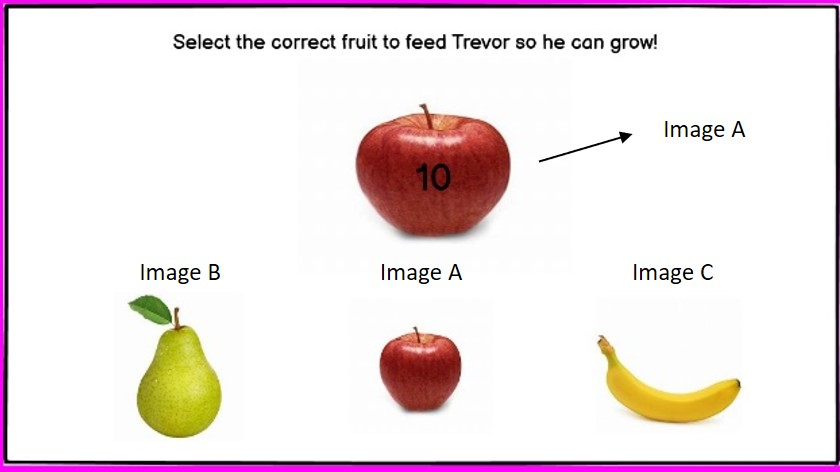
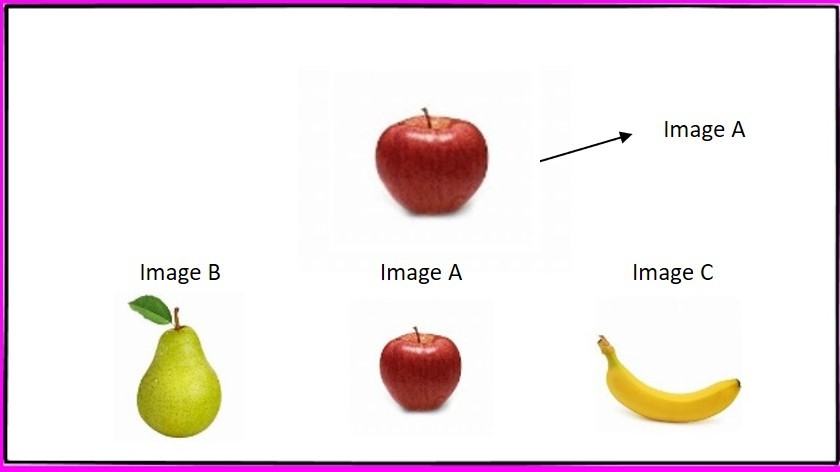
update README.md

Changed region(s): [[0.4024, 0.2076, 0.619, 0.5339], [0.1857, 0.0593, 0.8048, 0.1186]]

diff --git a/index.html b/index.html
@@ -103,19 +103,19 @@
 <!--Countdown timer and Image A-->
             <div>
                 <div class="answer__image__container">
-                   <img src="assets/images/egg_level/banana_single1.jpg" class="answer__image__picture" id="answer" alt="Random piece of fruit image which slowly disappear">
+                   <img src="assets/images/white_placeholder.jpg" class="answer__image__picture" id="answer" alt="Random piece of fruit image which slowly disappear">
                 </div>
             </div>
 <!---Three option images-->            
             <div class="row option__image__section">
                 <div class="col-4 option__image__container">
-                    <img src="assets/images/egg_level/apple_single1.jpg" class="option__image__picture hide" id="imageA" alt="Fruit option 1">
+                    <img src="assets/images/white_placeholder.jpg" class="option__image__picture hide" id="imageA" alt="Fruit option 1">
                 </div>
                 <div class="col-4 option__image__container">
-                    <img src="assets/images/egg_level/banana_single1.jpg" class="option__image__picture hide" id="imageB" alt="Fruit option 2">
+                    <img src="assets/images/white_placeholder.jpg" class="option__image__picture hide" id="imageB" alt="Fruit option 2">
                 </div>
                 <div class="col-4 option__image__container">
-                    <img src="assets/images/egg_level/lemon_single1.jpg" class="option__image__picture hide" id="imageC" alt="Fruit option 3">   
+                    <img src="assets/images/white_placeholder.jpg" class="option__image__picture hide" id="imageC" alt="Fruit option 3">   
                 </div>
             </div>
         </div>            

diff --git a/assets/js/main.js b/assets/js/main.js
@@ -141,6 +141,9 @@ function displayAnswer() {
 function imageFadeOut() {
     $('.answer__image__picture').fadeTo(5000, 0.01);
 }
+function imageFadeIn() {
+    $('.answer__image__picture').fadeTo(100, 1);   
+}
 function displayOptionImages() {
     $('.option__image__picture').removeClass('hide');
 }
@@ -176,9 +179,6 @@ function checkAnswer () {
 function incrementScore() {
     let oldScore = parseInt(document.querySelector('.correct__score__counter').innerText);
     document.querySelector('.correct__score__counter').innerText = ++oldScore;
-}
-function imageFadeIn() {
-    $('.answer__image__picture').fadeTo(100, 1);   
 }
 function correctAnswerAlert () {
     swal({

diff --git a/assets/css/style.css b/assets/css/style.css
@@ -358,8 +358,7 @@
     font-weight: bold;
     text-decoration: none;
 }
-
-@media only screen and (max-device-width: 768px) {
+@media only screen and (max-width: 768px) {
     .nav {
         font-size: 10px;
         padding-top: 20px;

diff --git a/README.md b/README.md
@@ -162,9 +162,11 @@ JavaScript is used to change the playing levels, so there is only one html file.
 
 ![wireframe_mobile_play](supporting_docs/wireframe_play_mobile.jpg)
 
-**Play area detail** <a name="play_detail"></a>
+**Play area detail** <a id="play_detail"></a>
 
 ![wireframe_images](supporting_docs/wireframe_images_detail.jpg)
+
+The game will not show the answer image at the same time as the three images below; the above wireframes are to show the position of the images when they appear.
 
 The game will have one file only, with the pop-up modal displaying over it. The images will be changed depending on the level selected using JavaScript.
 
